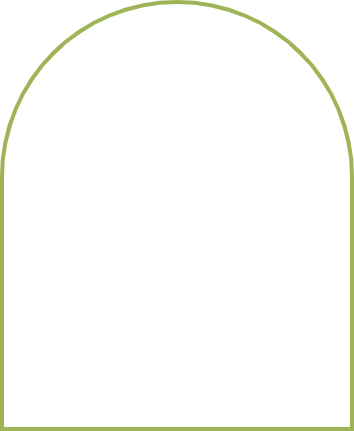
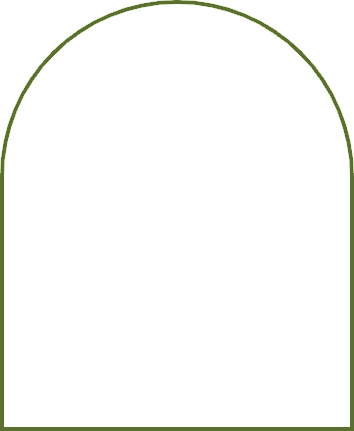
Keep the arch outline visible on the green story band.

diff --git a/src/components/home/StorySection.jsx b/src/components/home/StorySection.jsx
@@ -132,7 +132,7 @@ export default function StorySection({ onReadFullStory, onNavigate, slides = sto
               <button
                 type="button"
                 onClick={() => step(1)}
-                className="absolute left-3 sm:left-6 top-1/2 -translate-y-1/2 w-10 h-10 rounded-full bg-white/95 text-[#5c6b3a] shadow-md flex items-center justify-center hover:bg-white"
+                className="absolute left-3 sm:left-6 top-1/2 -translate-y-1/2 z-50 w-10 h-10 rounded-full bg-white/95 text-[#5c6b3a] shadow-md flex items-center justify-center hover:bg-white"
                 aria-label="قابهای بعدی"
               >
                 <ChevronLeft size={20} />
@@ -140,7 +140,7 @@ export default function StorySection({ onReadFullStory, onNavigate, slides = sto
               <button
                 type="button"
                 onClick={() => step(-1)}
-                className="absolute right-3 sm:right-6 top-1/2 -translate-y-1/2 w-10 h-10 rounded-full bg-white/95 text-[#5c6b3a] shadow-md flex items-center justify-center hover:bg-white"
+                className="absolute right-3 sm:right-6 top-1/2 -translate-y-1/2 z-50 w-10 h-10 rounded-full bg-white/95 text-[#5c6b3a] shadow-md flex items-center justify-center hover:bg-white"
                 aria-label="قابهای قبلی"
               >
                 <ChevronRight size={20} />
